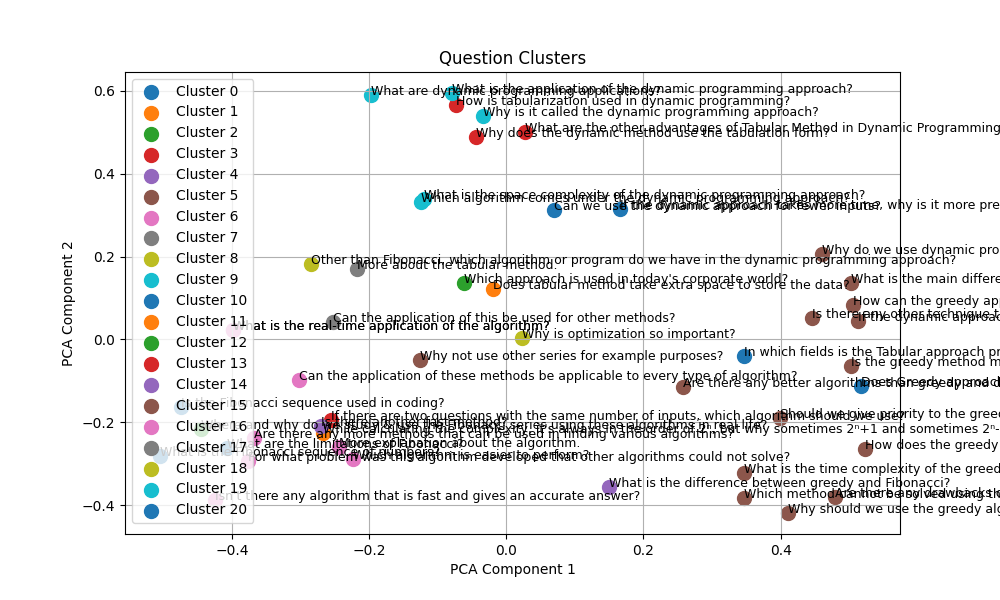
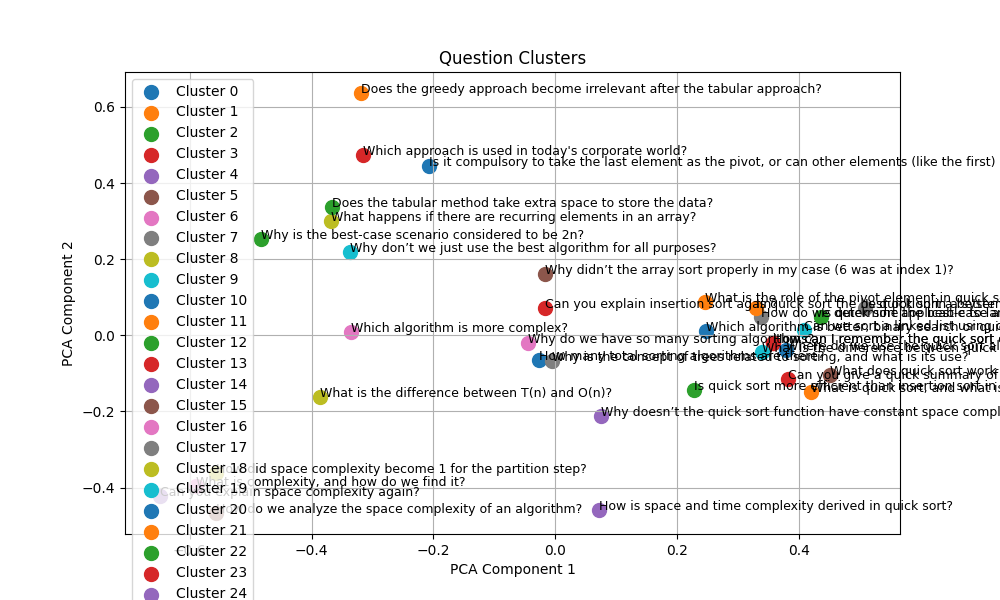
Add cors in backend

diff --git a/backend/app.py b/backend/app.py
@@ -1,4 +1,5 @@
 from flask import Flask, request, jsonify
+from flask_cors import CORS
 import numpy as np
 from sklearn.cluster import DBSCAN
 from sentence_transformers import SentenceTransformer
@@ -10,6 +11,7 @@ from sklearn.decomposition import PCA
 plt.switch_backend('Agg')
 
 app = Flask(__name__)
+CORS(app)
 
 # Load the Sentence-BERT model
 model = SentenceTransformer('all-MiniLM-L6-v2')
@@ -29,7 +31,7 @@ def cluster_questions():
     distance_matrix = 1 - cosine_sim_matrix
 
     # Apply DBSCAN
-    dbscan = DBSCAN(eps=0.9, min_samples=1)  # Adjust eps according to your data
+    dbscan = DBSCAN(eps=0.2, min_samples=1)  # Adjust eps according to your data
     clusters = dbscan.fit_predict(distance_matrix)
 
     # Prepare response
